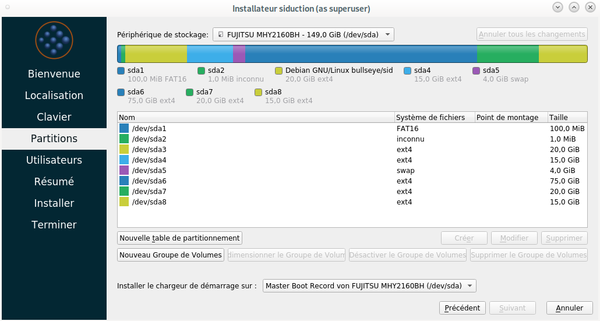
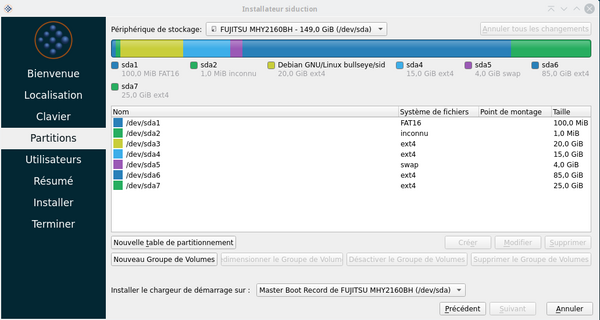
ohne /home-Partition

diff --git a/data/de/hd-install_de.htm b/data/de/hd-install_de.htm
@@ -15,6 +15,7 @@ table, th, td   {background-color: #EEC; border: #CCC thin solid; border-collaps
 hr              {height: 0.2em; background-color: #CCC; border: 0; margin: 2em 0 2em 0;}
 figcaption      {font-size: 0.8em; color: #888;}
 warning         {display: block; background: yellow; line-height: 1.3em; border: 0.2em solid #CCC; padding: 0.4em;}
+img             {border: 0.1em solid #CCC;}
 #rev            {float:right; font-size: 0.8em; color: #888;}
 </style>
 </head>
@@ -51,8 +52,21 @@ Dieser Bereich ist vor der Veröffentlichung zu entfernen !!!<br />
 <p>Änderungen 2020-12:</p>
 <ul>
 <li>Für die Verwendung mit pandoc optimiert.</li>
-<li>Inhaltsverzeichnis wieder entfernt, da pandoc autonatisch eines erstellt.</li>
+<li>Inhaltsverzeichnis wieder entfernt, da pandoc automatisch eines erstellt.</li>
 <li>Inhalt geringfügig überarbeitet.</li>
+</ul>
+<p>Änderungen 2021-02:</p>
+<ul>
+<li>Review (nicht abgeschlossen)</li>
+<li>Empfehlung von Lucky Backup mit BackInTime ersetzt. Das letzte wirkliche Release von Lucky Backup war 2014.</li>
+<li>Empfehlung für eigene Home-Partition entfernt, dadurch werden im Abschnitt Partitionierung einige neue Screenshots erforderlich</li>
+</ul>
+<p>Änderungen 2021-03:</p>
+<ul>
+<li>Nach RC1 zurückgestuft.</li>
+<li>Installation mit Calamares Punt 5.: Text ohne /home</li>
+<li>Screenshot für die Sprachen de, en, es, fr und it ohne Home-Partition erneuert.</li>
+<li>Nach RC2 gestuft.</li>
 </ul>
 <p>ENDE INFOBEREICH FÜR DIE AUTOREN</p>
 <h2 id="datensicherung">Datensicherung</h2>
@@ -61,36 +75,36 @@ Wenn auf dem Installationsziel bereits ein Betriebssystem beheimatet ist, oder D
 Siehe auch<br />
 <a href="sys-admin-rdiff_de.md">Backup mit rdiff</a><br />
 <a href="sys-admin-rsync_de.md">Backup mit rsync</a><br />
-Eine weitere Option ist Lucky Backup (muss installiert werden).</p>
+Eine weitere Option ist BackInTime (muss installiert werden).</p>
 <hr />
 <h2 id="installationsvorbereitungen">Installationsvorbereitungen</h2>
-<p>Zuerst stellt man die Bootreihenfolge auf das zu bootende Medium (DVD, Flashcard oder USB-Stick) um. Bei den meisten Computern kommt man durch Drücken der <code>F2</code> oder <code>Entf</code>-Taste während des Bootvorgangs in das Setup von UEFI oder BIOS. Alternativ kann während des Bootvorgangs die Taste <code>F12</code>, <code>F11</code> oder <code>F8</code> (je nach Angaben der Hardwarehersteller) gedrückt werden um dann das Live-Medium als Startlaufwerk auszuwählen.</p>
+<p>Zuerst stellt man die Bootreihenfolge auf das zu bootende Medium (DVD, Flashcard oder USB-Stick) um. Bei den meisten Computern kommt man durch Drücken der <code>F2</code> oder <code>Entf</code>-Taste während des Bootvorgangs in das Setup von UEFI oder BIOS. Alternativ kann während des Bootvorgangs die Taste <code>F12</code>, <code>F11</code> <code>F7</code> oder <code>F8</code> (je nach Angaben der Hardwarehersteller) gedrückt werden um dann das Live-Medium als Startlaufwerk auszuwählen.</p>
 <p>siduction startet jetzt in der Regel problemlos. Sollte das nicht der Fall sein, helfen Bootoptionen (Cheatcodes), die an den Bootmanager übergeben werden können. Die Handbuchseite <a href="cheatcodes_de.md">Cheatcodes</a> erläutert die möglichen Optionen.<br />
 Am Startbildschirm des Live-Mediums wird, je nachdem was zutrifft, mit den Pfeiltasten zu “From CD/DVD/ISO: …” oder “From Stick/HDD: …” navigiert und die Taste <code>e</code> betätigt. So gelangt man zum editieren der Kernelbefehlszeile um die Cheatcodes hinzuzufügen. Mit der Taste <code>F10</code> wird der Bootvorgang fortgesetzt.</p>
 <p><strong>Vor der Installation bitte alle USB-Sticks, Kameras etc. entfernen.</strong></p>
 <p>Soll siduction nicht von, sondern <strong>auf ein USB-Medium</strong> installiert werden, ist ein anderes Verfahren notwendig. Siehe dazu die Handbuchseite <a href="hd-install-opts_de.md#usb-hd">Installation auf ein USB-Medium</a>.</p>
 <h3 id="hdd-ram-und-swap">HDD, RAM und Swap</h3>
-<p>Die Mindesanforderungen zur Installation der siduction Varianten sind auf der Handbuchseite <a href="cd-content_de.md#min-hw">Inhalt der Live-ISO</a> beschrieben.<br />
-Mit 15 GB Festplattenvolumen und 2 GB Arbeitsspeicher ist man zur Zeit noch auf der sicheren Seite. Auf PCs mit maximal 1 GB RAM sollte eine swap-Partition angelegt werden. Mehr als 2 GB Swap wird normal nicht benötigt und ist nur bei Suspend-to-Disk und Serversystemen wirklich sinnvoll.</p>
+<p>Die Mindestanforderungen zur Installation der siduction Varianten sind auf der Handbuchseite <a href="cd-content_de.md#min-hw">Inhalt der Live-ISO</a> beschrieben.<br />
+Mit 15 GB Festplattenvolumen und 2 GB Arbeitsspeicher ist man zur Zeit noch auf der sicheren Seite. Auf PCs mit maximal 1 GB RAM sollte eine Swap-Partition angelegt werden. Mehr als 2 GB Swap wird normal nicht benötigt und ist nur bei Suspend-to-Disk und Serversystemen wirklich sinnvoll.</p>
 <h3 id="partitionierung">Partitionierung</h3>
 <p>Die Partitionierung der Laufwerke ist von vielen Faktoren abhängig:</p>
 <ul>
 <li>Auswahl der siduction-Variante</li>
 <li>Größe der vorhandenen Laufwerke und des Arbeitsspeichers</li>
-<li>Single-Boot, oder Dual-Boot mit einem bereits installierten System (Windows, Linux, MAC)</li>
+<li>Single-Boot oder Dual-Boot mit einem bereits installierten System (Windows, Linux, MAC)</li>
 <li>Gemeinsame Nutzung von Daten für die installierten Systeme</li>
 </ul>
 <p>Beispiele und Größen für unterschiedliche Installationssituationen beschreibt die Handbuchseite <a href="part-size-examp_de.md">Partitionierung</a>.<br />
-Es ist eine gute Idee für das <strong>/home</strong>-Verzeichnis eine eigene Partition anzulegen, sofern das Festplattenvolumen nicht extrem begrenzt ist. Das Verzeichnis <strong>/home</strong> wird zu dem Ort, an dem die individuellen Konfigurationen abgelegt werden.<br />
-Darüber hinaus empfiehlt sich auch eine eigene Datenpartition. Die Vorteile für die Datenstabilität, Datensicherung und auch im Falle einer Datenrettung sind nahezu unermesslich.</p>
+Wir empfehlen, das <strong>/home</strong>-Verzeichnis auf der Wurzel-Partition zu belassen. Das Verzeichnis <strong>/home</strong> sollte der Ort sein, an dem die individuellen Konfigurationen abgelegt werden, und nur diese. Für alle weiteren privaten Daten sollte eine eigene Datenpartition angelegt werden. Die Vorteile für die Datenstabilität, Datensicherung und auch im Falle einer Datenrettung sind nahezu unermesslich.</p>
 <p>Die Partitionierung kann während der Installation vorgenommen werden, oder bereits im Vorfeld während der Live-Sitzung mit den folgenden Programmen:<br />
-<a href="part-gparted_de.md">Gparted</a>, ein Programm für die graphische Oberfläche<br />
+<a href="part-gparted_de.md">Gparted</a>, ein Programm für die graphische Oberfläche für GTK-Desktops<br />
+[KDE Partition Manager], ein weiteres Programm für die graphische Oberfläche für Qt-Desktops<br />
 <a href="part-gdisk_de.md">gdisk</a>, empfohlen bei UEFI Hardware für GTP Partitionstabellen<br />
 <a href="part-cfdisk_de.md">cfdisk</a>, nur für ältere Hardware mit traditionellem BIOS und MBR Partitionstabellen</p>
 <h3 id="dateisysteme">Dateisysteme</h3>
 <p>Wir empfehlen das Dateisystem <strong>ext4</strong>, welches bei siduction als Default-Dateisystem verwendet wird. Dies gilt für alle Partitionen, wenn ausschließlich Linux Betriebssysteme verwendet werden.</p>
-<p>Bei einer Dual-Boot Installation mit <em>Windows</em> ist eine eigene Datenpartition mit dem <strong>NTFS</strong> Dateisystem sinnvoll. Linux kann lesend und schreibend darauf zugeifen; für Windows ist es das Standarddateisystem.</p>
-<p>Bei einer Dual-Boot Installation mit <em>MAC</em> ist ebenfalls eine eigene Datenpartition allerdings mit dem <strong>HFS</strong> oder <strong>HFS+</strong> Dateisystem sinnvoll. Linux und MAC können lesend und schreibend darauf zugeifen.</p>
+<p>Bei einer Dual-Boot Installation mit <em>Windows</em> ist eine eigene Datenpartition mit dem <strong>NTFS</strong> Dateisystem sinnvoll. Linux kann lesend und schreibend darauf zugreifen; für Windows ist es das Standarddateisystem.</p>
+<p>Bei einer Dual-Boot Installation mit <em>MAC</em> ist ebenfalls eine eigene Datenpartition allerdings mit dem <strong>HFS</strong> oder <strong>HFS+</strong> Dateisystem sinnvoll. Linux und MAC können lesend und schreibend darauf zugreifen.</p>
 <h3 id="duplizierung-auf-einem-anderen-computer">Duplizierung auf einem anderen Computer</h3>
 <p>Mit folgendem Konsolenbefehl wird eine Liste der installierten Softwarepakete erstellt, um mit Hilfe dieser eine identische Softwareauswahl auf einem anderen Computer oder bei einer allfälligen Neuinstallation installieren zu können:</p>
 <pre><code># dpkg -l|awk &#39;/^ii/{ print $2 }&#39;|grep -v -e ^lib -e -dev -e $(uname -r) &gt;/home/username/installed.txt</code></pre>
@@ -102,42 +116,41 @@ Auf der Zielinstallation wird die Textdatei nach $HOME kopiert und als Referenz 
 <h2 id="das-siduction-installationsprogramm-calamares">Das siduction-Installationsprogramm (Calamares)</h2>
 <p>Während der Installation sollte, wenn möglich, der Computer mit dem Internet verbunden sein, weil Calamares den GeoIP Service verwendet um Voreinstellungen für die Lokalisation und Zeit zu ermitteln.</p>
 <ol type="1">
-<li><p>Das Installationsprogramm startet man bequem über das Icon <img src="../../static/images-de/install_hd-de/calamares-de_00.png" alt="calamares icon" /> am Desktop oder im Menü: <em>System</em> &gt; <em>System installieren</em>.</p></li>
+<li><p>Das Installationsprogramm startet man bequem über das Icon <img src="../../static/images-de/install-hd-de/calamares-de_00.png" alt="calamares icon" /> am Desktop oder im Menü: <em>System</em> &gt; <em>System installieren</em>.</p></li>
 <li><p>Nach einem Doppelklick auf das Icon startet Calamares und wir sehen das “Willkommen” - Fenster.</p>
 <figure>
-<img src="../../static/images-de/install_hd-de/calamares-de_01.png" title="Willkommen" alt="" /><figcaption>calamares welcome</figcaption>
+<img src="../../static/images-de/install-hd-de/calamares-de_01.png" title="Willkommen" alt="" /><figcaption>calamares welcome</figcaption>
 </figure>
-<p>Sofern eine Internetverbindung besteht, ist hier bereits die richtige Sprache eingestellt.</p></li>
+<p>Sofern eine Internetverbindung besteht, sollte hier bereits die richtige Sprache eingestellt sein.</p></li>
 <li><p>Im nächsten Fenster “Standort” besteht die Möglichkeit Änderungen zur <em>Region</em>, der <em>Zeitzone</em> und <em>Systemsprache</em>, sowie dem <em>Format</em> für das Datum und die Zahlen vorzunehmen.</p>
 <figure>
-<img src="../../static/images-de/install_hd-de/calamares-de_02.png" title="Standort" alt="" /><figcaption>calamares location</figcaption>
+<img src="../../static/images-de/install-hd-de/calamares-de_02.png" title="Standort" alt="" /><figcaption>calamares location</figcaption>
 </figure></li>
 <li><p>Es folgen die Einstellungen zur Tastatur.</p>
 <figure>
-<img src="../../static/images-de/install_hd-de/calamares-de_03.png" title="Tastatur" alt="" /><figcaption>calamares keyboard</figcaption>
+<img src="../../static/images-de/install-hd-de/calamares-de_03.png" title="Tastatur" alt="" /><figcaption>calamares keyboard</figcaption>
 </figure>
 <p>Im oberen Teil wird die Tastatur graphisch dargestellt und die Änderungen werden sofort sichtbar. Ganz unten befindet sich eine Eingabezeile um das Tastaturlayout zu testen.</p></li>
 <li><p>Im nächsten Schritt erreichen wir die bereits oben erwähnte Partitionierung mit der bestimmt wird, welche Teile der Festplatte(n) siduction verwendet.</p>
 <figure>
-<img src="../../static/images-de/install_hd-de/calamares-de_04.png" title="Partitionen" alt="" /><figcaption>calamares partitions</figcaption>
+<img src="../../static/images-de/install-hd-de/calamares-de_04.png" title="Partitionen" alt="" /><figcaption>calamares partitions</figcaption>
 </figure>
 <p>In unserem Beispiel verwenden wir die <em>Manuelle Partitionierung</em> weil bereits im Vorfeld die Partitionen angelegt wurden und wir nur noch das richtige Installationsziel auswählen. Nach einem Klick auf <em>Weiter</em> erscheint das nächste Fenster, in dem wir die einzelnen Partitionen auswählen und bearbeiten können.</p>
 <figure>
-<img src="../../static/images-de/install_hd-de/calamares-de_05.png" title="Partitionen bearbeiten" alt="" /><figcaption>calamares work on partitions</figcaption>
+<img src="../../static/images-de/install-hd-de/calamares-de_05.png" title="Partitionen bearbeiten" alt="" /><figcaption>calamares work on partitions</figcaption>
 </figure>
 <p>Wir benutzen die Partitionen<br />
-sda7 für <strong>/</strong> (root)<br />
-sda8 für <strong>/home</strong><br />
-sda6 für <strong>/daten</strong> gemeinsam mit dem bereits auf sda3 und sda4 vonhanden Linux</p>
-<p>Nach Auswählen der betreffenden Partition und Betätigen des Schalters <em>Ändern</em> öffnet sich ein Fenster, in dem wir den oben bezeichneten Mountpiont eintragen und für sda7 und sda8 auch die Formatierung mit dem Dateisystem <strong>ext4</strong> vornehmen. Die Partition sda6 wird nicht formatiert, da wir die dort schon abglegten Daten gemeinsam mit dem bereits vorhandenen Linux nutzen möchten.<br />
+sda7 für / (root)<br />
+sda6 für /daten gemeinsam mit dem bereits auf sda3 und sda4 vonhanden Linux</p>
+<p>Nach Auswählen der betreffenden Partition und Betätigen des Schalters <em>Ändern</em> öffnet sich ein Fenster, in dem wir den oben bezeichneten Mountpiont eintragen und für sda7 auch die Formatierung mit dem Dateisystem <strong>ext4</strong> vornehmen. Die Partition sda6 wird nicht formatiert, da wir die dort schon abglegten Daten gemeinsam mit dem bereits vorhandenen Linux nutzen möchten.<br />
 Die Swap-Partition (sda5) brauchen wir nicht bearbeiten, da sie während der Installation automatisch erkannt und integriert wird.<br />
 Das Ergebnis unserer Bemühungen sehen wir im nächsten Bild.</p>
 <figure>
-<img src="../../static/images-de/install_hd-de/calamares-de_06.png" title="Partitionen Ergebnis" alt="" /><figcaption>calamares partitions finish</figcaption>
+<img src="../../static/images-de/install-hd-de/calamares-de_06.png" title="Partitionen Ergebnis" alt="" /><figcaption>calamares partitions finish</figcaption>
 </figure></li>
-<li><p>Als nächstes werden Benutzername, Anmeldename, Computername, Benutzerpasswort und Rootpasswort festgelegt (bitte gut merken!). Die Passwörter sollen aus Sicherheitsgründen nicht zu einfach gewählt werden. Weitere Benutzer können nach der Installation in einem Terminal mit <a href="#adduser">adduser</a> hinzugefügt werden.</p>
+<li><p>Als nächstes werden Benutzername, Anmeldename, Computername, Benutzerpasswort und Root-Passwort festgelegt (bitte gut merken!). Die Passwörter sollen aus Sicherheitsgründen nicht zu einfach gewählt werden. Weitere Benutzer können nach der Installation in einem Terminal mit <a href="#adduser">adduser</a> hinzugefügt werden.</p>
 <figure>
-<img src="../../static/images-de/install_hd-de/calamares-de_07.png" title="Benutzer" alt="" /><figcaption>calamares users</figcaption>
+<img src="../../static/images-de/install-hd-de/calamares-de_07.png" title="Benutzer" alt="" /><figcaption>calamares users</figcaption>
 </figure>
 <p>Vor der Verwendung der beiden Optionen<br />
 “Automatisches Einloggen ohne Passwortabfrage” und<br />
@@ -145,15 +158,15 @@ Das Ergebnis unserer Bemühungen sehen wir im nächsten Bild.</p>
 wird hier ausdrücklich gewarnt. Sie stellen schon für sich allein ein Sicherheitsrisiko dar (siehe auch <a href="term-konsole_de.md#sudo">sudo</a>). Sind beide Optionen aktiviert ist die Eingabe von Passwörtern nur noch eine Farce!</p></li>
 <li><p>Nach Betätigen der Taste <em>Weiter</em> erscheint eine Zusammenfassung aller zuvor getätigten Eingaben. Jetzt besteht noch die Möglichkeit über <em>Zurück</em> Änderungen vorzunehmen. Sind wir mit dem Ergebnis zufrieden, öffnet ein Klick auf <em>Installieren</em> das kleine Warnfenster in dem wir die Installation bestätigen müssen.</p>
 <figure>
-<img src="../../static/images-de/install_hd-de/calamares-de_08.png" title="Zusammenfassung" alt="" /><figcaption>calamares summary</figcaption>
+<img src="../../static/images-de/install-hd-de/calamares-de_08.png" title="Zusammenfassung" alt="" /><figcaption>calamares summary</figcaption>
 </figure></li>
 <li><p>Nun startet die Installation. Dies dauert je nach Hardware einige Zeit. Der Fortschritt wird entsprechend angezeigt. Auch wenn es etwas länger dauert, bitte die Installation nicht abbrechen, sondern dem Prozess Zeit geben.</p>
 <figure>
-<img src="../../static/images-de/install_hd-de/calamares-de_09.png" title="Installieren" alt="" /><figcaption>calamares install</figcaption>
+<img src="../../static/images-de/install-hd-de/calamares-de_09.png" title="Installieren" alt="" /><figcaption>calamares install</figcaption>
 </figure></li>
 <li><p>Am Ende erhalten wir die Möglichkeit zu einem Reboot in das neu installierte System.</p>
 <figure>
-<img src="../../static/images-de/install_hd-de/calamares-de_10.png" title="Beenden" alt="" /><figcaption>calamares reboot</figcaption>
+<img src="../../static/images-de/install-hd-de/calamares-de_10.png" title="Beenden" alt="" /><figcaption>calamares reboot</figcaption>
 </figure>
 <p>Vor dem Reboot die CD aus dem Laufwerk nehmen!</p></li>
 </ol>
@@ -170,7 +183,7 @@ wird hier ausdrücklich gewarnt. Sie stellen schon für sich allein ein Sicherhe
 man deluser</code></pre>
 <hr />
 <div id="rev">
-Zuletzt bearbeitet: 2020-12-28
+Zuletzt bearbeitet: 2021-03-04
 </div>
 </body>
 </html>

diff --git a/data/de_md/hd-install_de.md b/data/de_md/hd-install_de.md
@@ -2,7 +2,7 @@
 
 ANFANG   INFOBEREICH FÜR DIE AUTOREN  
 Dieser Bereich ist vor der Veröffentlichung zu entfernen !!!  
-**Status: RC1**
+**Status: RC2**
 
 Änderungen 2020-06:
 
@@ -28,6 +28,9 @@ Dieser Bereich ist vor der Veröffentlichung zu entfernen !!!
 Änderungen 2021-03:
 
 + Nach RC1 zurückgestuft.
++ Installation mit Calamares Punt 5.: Text ohne /home
++ Screenshot für die Sprachen de, en, es, fr und it ohne Home-Partition erneuert.
++ Nach RC2 gestuft.
 
 ENDE   INFOBEREICH FÜR DIE AUTOREN
 
@@ -108,46 +111,46 @@ installiert werden.
 
 Während der Installation sollte, wenn möglich, der Computer mit dem Internet verbunden sein, weil Calamares den GeoIP Service verwendet um Voreinstellungen für die Lokalisation und Zeit zu ermitteln.
 
-1. Das Installationsprogramm startet man bequem über das Icon ![calamares icon](../../static/images-de/install_hd-de/calamares-de_00.png) am Desktop oder im Menü: *System* > *System installieren*.
+1. Das Installationsprogramm startet man bequem über das Icon ![calamares icon](../../static/images-de/install-hd-de/calamares-de_00.png) am Desktop oder im Menü: *System* > *System installieren*.
 
 2. Nach einem Doppelklick auf das Icon startet Calamares und wir sehen das "Willkommen" - Fenster.
 
-   ![calamares welcome](../../static/images-de/install_hd-de/calamares-de_01.png "Willkommen")
+   ![calamares welcome](../../static/images-de/install-hd-de/calamares-de_01.png "Willkommen")
    
    Sofern eine Internetverbindung besteht, sollte hier bereits die richtige Sprache eingestellt sein.
 
 3. Im nächsten Fenster "Standort" besteht die Möglichkeit Änderungen zur *Region*, der *Zeitzone* und *Systemsprache*, sowie dem *Format* für das Datum und die Zahlen vorzunehmen.
 
-   ![calamares location](../../static/images-de/install_hd-de/calamares-de_02.png "Standort") 
+   ![calamares location](../../static/images-de/install-hd-de/calamares-de_02.png "Standort") 
 
 4. Es folgen die Einstellungen zur Tastatur.
 
-   ![calamares keyboard](../../static/images-de/install_hd-de/calamares-de_03.png "Tastatur")
+   ![calamares keyboard](../../static/images-de/install-hd-de/calamares-de_03.png "Tastatur")
    
    Im oberen Teil wird die Tastatur graphisch dargestellt und die Änderungen werden sofort sichtbar. Ganz unten befindet sich eine Eingabezeile um das Tastaturlayout zu testen.
 
 5. Im nächsten Schritt erreichen wir die bereits oben erwähnte Partitionierung mit der bestimmt wird, welche Teile der Festplatte(n) siduction verwendet.
 
-   ![calamares partitions](../../static/images-de/install_hd-de/calamares-de_04.png "Partitionen")
+   ![calamares partitions](../../static/images-de/install-hd-de/calamares-de_04.png "Partitionen")
    
    In unserem Beispiel verwenden wir die *Manuelle Partitionierung* weil bereits im Vorfeld die Partitionen angelegt wurden und wir nur noch das richtige Installationsziel auswählen. Nach einem Klick auf *Weiter* erscheint das nächste Fenster, in dem wir die einzelnen Partitionen auswählen und bearbeiten können.
    
-   ![calamares work on partitions](../../static/images-de/install_hd-de/calamares-de_05.png "Partitionen bearbeiten")
+   ![calamares work on partitions](../../static/images-de/install-hd-de/calamares-de_05.png "Partitionen bearbeiten")
    
    Wir benutzen die Partitionen  
-   ...
-   <!-- muss neu erstellt werden, samt Screenshots --> 
+   sda7 für / (root)  
+   sda6 für /daten gemeinsam mit dem bereits auf sda3 und sda4 vonhanden Linux
    
-   Nach Auswählen der betreffenden Partition und Betätigen des Schalters *Ändern* öffnet sich ein Fenster, in dem wir den oben bezeichneten Mountpiont eintragen und für sda7 und sda8 auch die Formatierung mit dem Dateisystem **ext4** vornehmen. Die Partition sda6 wird nicht formatiert, da wir die dort schon abglegten Daten gemeinsam mit dem bereits vorhandenen Linux nutzen möchten.  
+   Nach Auswählen der betreffenden Partition und Betätigen des Schalters *Ändern* öffnet sich ein Fenster, in dem wir den oben bezeichneten Mountpiont eintragen und für sda7 auch die Formatierung mit dem Dateisystem **ext4** vornehmen. Die Partition sda6 wird nicht formatiert, da wir die dort schon abglegten Daten gemeinsam mit dem bereits vorhandenen Linux nutzen möchten.  
    Die Swap-Partition (sda5) brauchen wir nicht bearbeiten, da sie während der Installation automatisch erkannt und integriert wird.  
    Das Ergebnis unserer Bemühungen sehen wir im nächsten Bild.
    
-   ![calamares partitions finish](../../static/images-de/install_hd-de/calamares-de_06.png "Partitionen Ergebnis")
+   ![calamares partitions finish](../../static/images-de/install-hd-de/calamares-de_06.png "Partitionen Ergebnis")
 
 
 6. Als nächstes werden Benutzername, Anmeldename, Computername, Benutzerpasswort und Root-Passwort festgelegt (bitte gut merken!). Die Passwörter sollen aus Sicherheitsgründen nicht zu einfach gewählt werden. Weitere Benutzer können nach der Installation in einem Terminal mit [adduser](#adduser) hinzugefügt werden.
 
-   ![calamares users](../../static/images-de/install_hd-de/calamares-de_07.png "Benutzer")
+   ![calamares users](../../static/images-de/install-hd-de/calamares-de_07.png "Benutzer")
    
    Vor der Verwendung der beiden Optionen  
    "Automatisches Einloggen ohne Passwortabfrage" und  
@@ -156,15 +159,15 @@ Während der Installation sollte, wenn möglich, der Computer mit dem Internet v
 
 7. Nach Betätigen der Taste *Weiter* erscheint eine Zusammenfassung aller zuvor getätigten Eingaben. Jetzt besteht noch die Möglichkeit über *Zurück* Änderungen vorzunehmen. Sind wir mit dem Ergebnis zufrieden, öffnet ein Klick auf *Installieren* das kleine Warnfenster in dem wir die Installation bestätigen müssen.
 
-   ![calamares summary](../../static/images-de/install_hd-de/calamares-de_08.png "Zusammenfassung") 
+   ![calamares summary](../../static/images-de/install-hd-de/calamares-de_08.png "Zusammenfassung") 
 
 8. Nun startet die Installation. Dies dauert je nach Hardware einige Zeit. Der Fortschritt wird entsprechend angezeigt. Auch wenn es etwas länger dauert, bitte die Installation nicht abbrechen, sondern dem Prozess Zeit geben.
 
-   ![calamares install](../../static/images-de/install_hd-de/calamares-de_09.png "Installieren")
+   ![calamares install](../../static/images-de/install-hd-de/calamares-de_09.png "Installieren")
 
 9. Am Ende erhalten wir die Möglichkeit zu einem Reboot in das neu installierte System. 
 
-   ![calamares reboot](../../static/images-de/install_hd-de/calamares-de_10.png "Beenden")
+   ![calamares reboot](../../static/images-de/install-hd-de/calamares-de_10.png "Beenden")
 
    Vor dem Reboot die CD aus dem Laufwerk nehmen!
 
@@ -197,4 +200,4 @@ man deluser
 
 ---
 
-<div id="rev">Zuletzt bearbeitet: 2021-03-02</div>
+<div id="rev">Zuletzt bearbeitet: 2021-03-04</div>
